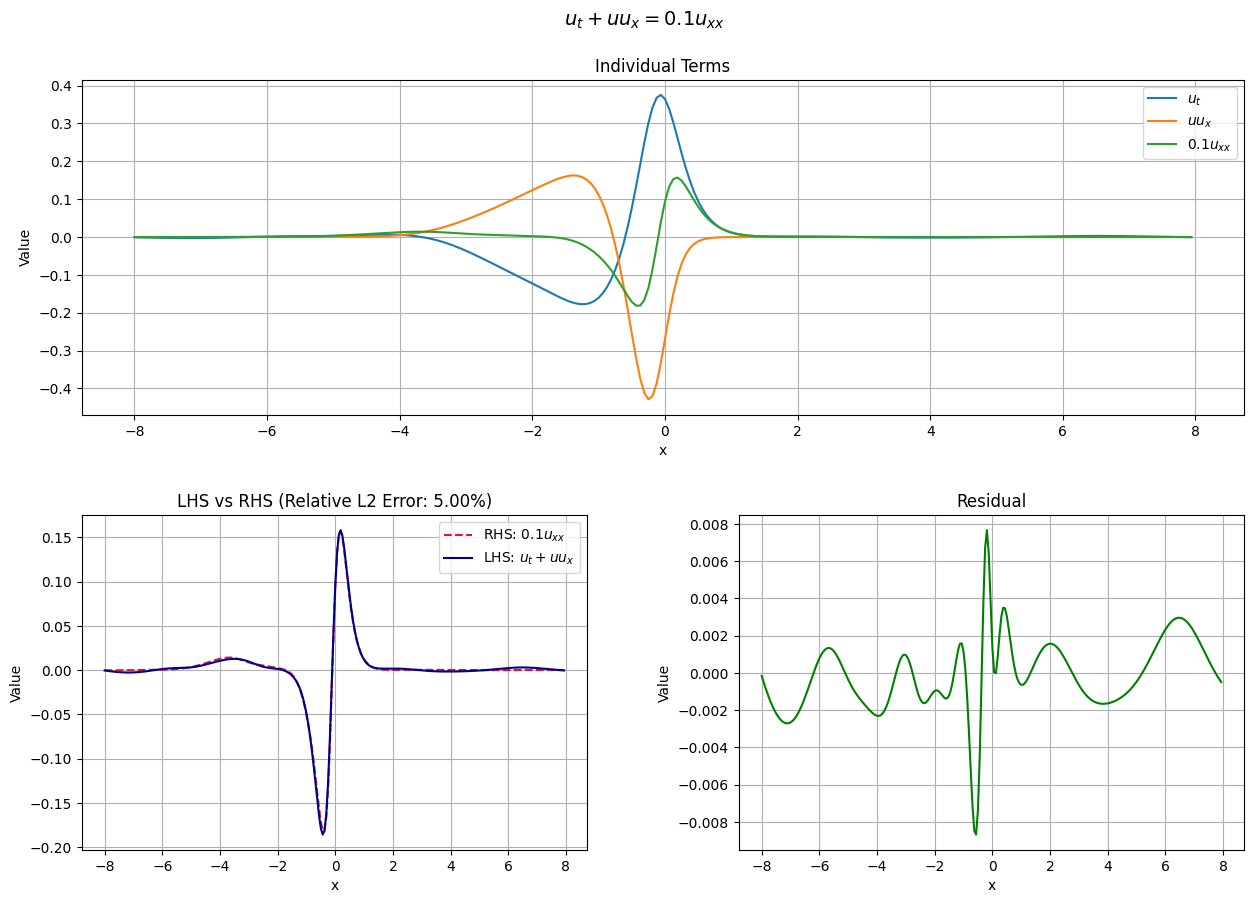
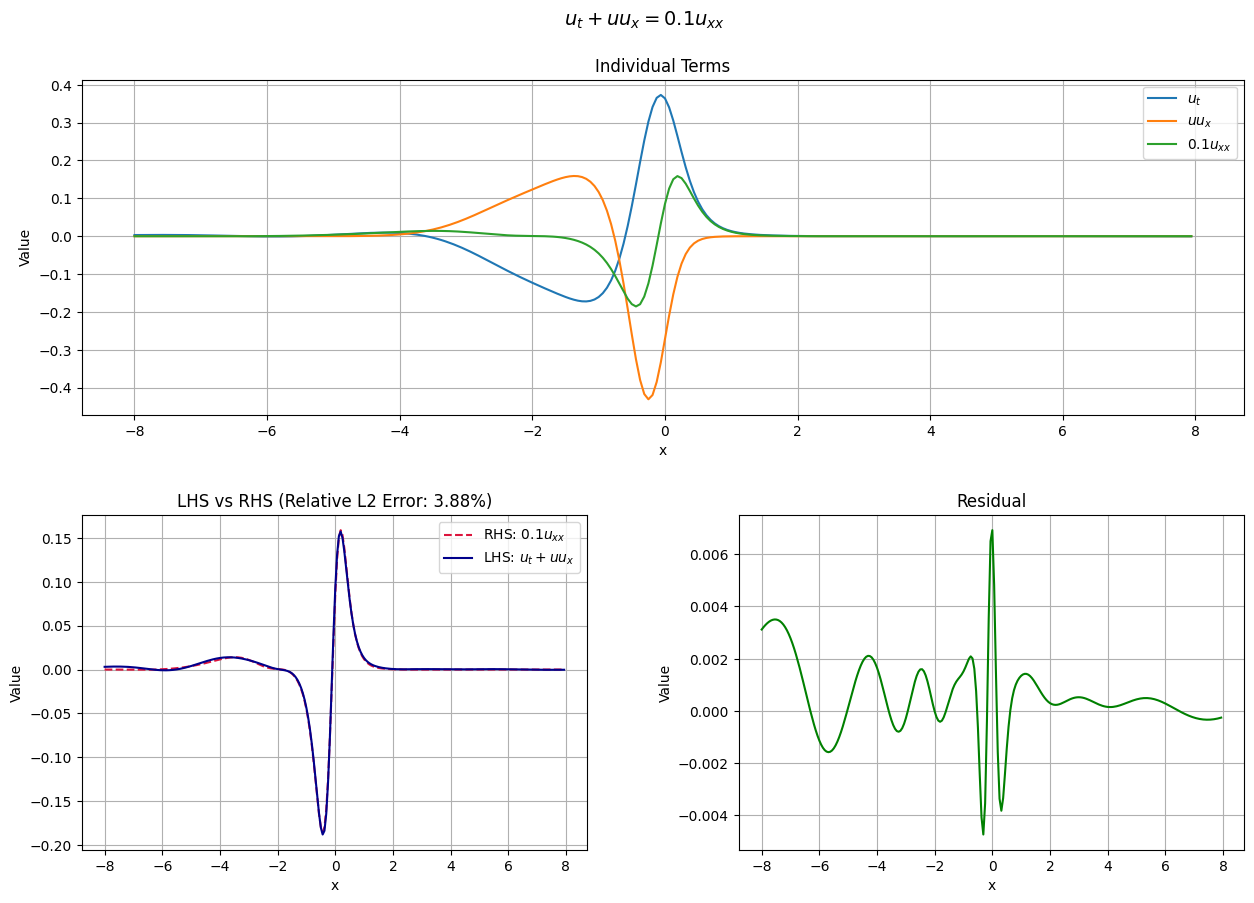
use different activation function for system 1 & 2, added improved results

diff --git a/project_2/train.py b/project_2/train.py
@@ -20,22 +20,24 @@ import matplotlib.pyplot as plt
 
 class Net(nn.Module):
     """Simple NN used for approximating spatiotemporal solution u(x, t)"""
-    def __init__(self, width = 64):
+    def __init__(self, width = 64, activation_fun = nn.Tanh()):
         super(Net, self).__init__()
-
         self.width = width
 
-        self.fc = nn.Sequential(
-            nn.Linear(2, self.width),
-            nn.Tanh(),
-            nn.Linear(self.width, self.width),
-            nn.Tanh(),
-            nn.Linear(self.width, 1),
-        )
+        # Layers
+        self.fc0 = nn.Linear(2, self.width)
+        self.fc1 = nn.Linear(self.width, self.width)
+        self.fc2 = nn.Linear(self.width, 1)
+        self.activation = activation_fun
         
     def forward(self, x, t):
-        inp = torch.cat([x, t], dim=1)
-        return self.fc(inp)
+        X = torch.cat([x, t], dim=1)
+        X = self.fc0(X)
+        X = self.activation(X)
+        X = self.fc1(X)
+        X = self.activation(X)
+        X = self.fc2(X)
+        return X
 
 
 def main(system = 1):
@@ -47,14 +49,14 @@ def main(system = 1):
     if system == 1:
         path = 'data/1.npz'
         name = "Burgers' Equation"
+        activation_fun = nn.Tanh()
 
-        # for NN
         width = 64
     else:
         path = 'data/2.npz'
         name = "KdV Equation"
-
-        width = 128
+        activation_fun = nn.GELU()
+        width = 64
 
     data = np.load(path)
     u = data['u']
@@ -90,7 +92,7 @@ def main(system = 1):
 
 
     # Initialize model, loss function, and optimizer
-    model = Net(width).to(device)
+    model = Net(width=width, activation_fun=activation_fun).to(device)
     criterion = nn.MSELoss()
     # optimizer = optim.Adam(model.parameters(), lr=1e-3)
     optimizer = torch.optim.AdamW(model.parameters(), 

diff --git a/project_2/differentiation.py b/project_2/differentiation.py
@@ -10,6 +10,8 @@ import json
 import argparse
 
 import torch
+import torch.nn as nn
+
 import numpy as np
 import matplotlib.pyplot as plt
 import imageio.v2 as imageio
@@ -107,11 +109,13 @@ def main(system=1):
     if system == 1:
         path = 'data/1.npz'
         name = "Burgers' Equation"
-        width = 32
+        activation_fun = nn.Tanh()
+        width = 64 # 3.88%
     else:
         path = 'data/2.npz'
         name = "KdV Equation"
-        width = 128
+        activation_fun = nn.GELU()
+        width = 64 # 4.79%
 
     data = np.load(path)
 
@@ -142,7 +146,7 @@ def main(system=1):
     state_dict = torch.load(model_path, map_location=device, weights_only=True)
 
     # Initialize model, loss function, and optimizer
-    model = Net(width).to(device)
+    model = Net(width=width, activation_fun=activation_fun).to(device)
     model.load_state_dict(state_dict)
     model.to(device)
 
@@ -312,12 +316,12 @@ def main(system=1):
             results_dir=results_dir
         )
     else:
-        # For u_t + 6*u*u_x + u_xxx = 0
+        # For u_t + 6*u*u_x = - u_xxx
         plot_pde_comparison(
             X=X,
             functions=functions,
-            lhs_terms=[('u_t', 1), ('u*u_x', 6), ('u_xxx', 1)],
-            rhs_terms=[],  # Empty list since everything is on LHS
+            lhs_terms=[('u_t', 1), ('u*u_x', 6)],
+            rhs_terms=[('u_xxx', -1)],  # Empty list since everything is on LHS
             snapshot=snapshot,
             results_dir=results_dir
         )

diff --git a/project_2/test.py b/project_2/test.py
@@ -9,6 +9,8 @@ import json
 import argparse
 
 import torch
+import torch.nn as nn
+
 import numpy as np
 import matplotlib.pyplot as plt
 import imageio.v2 as imageio
@@ -25,33 +27,29 @@ def main(system=1):
     results_dir = f"results/system_{system}"
     os.makedirs(results_dir, exist_ok=True)
 
-
     # Load the saved model
     model_path = f'checkpoints/system_{system}/model.pth'
     state_dict = torch.load(model_path, map_location=device, weights_only=True)
 
     # Initialize model, loss function, and optimizer
     if system == 1:
-        width = 64
-    else:
-        width = 64
-        
-    model = Net(width).to(device)
-    model.load_state_dict(state_dict)
-    model.to(device)
-
-    print(f"Model loaded from {model_path}")
-
-
-    # Evaluation: Preparation of Dataset
-    if system == 1:
         path = 'data/1.npz'
         name = "Burgers' Equation"
+        width = 64
+        activation_fun = nn.Tanh()
     elif system == 2:
         path = 'data/2.npz'
         name = "KdV Equation"
-    print(f"Testing on dataset loaded from {path}")
+        width = 64
+        activation_fun = nn.GELU()
+        
+    model = Net(width=width, activation_fun=activation_fun).to(device)
+    model.load_state_dict(state_dict)
+    model.to(device)
+    print(f"Model loaded from {model_path}")
 
+    # Evaluation: Preparation of Dataset
+    print(f"Testing on dataset loaded from {path}")
     data = np.load(path)
     u = data['u']        
     x = data['x']
